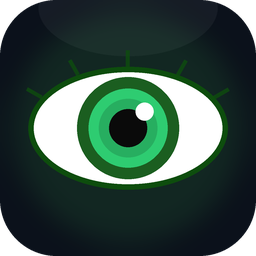
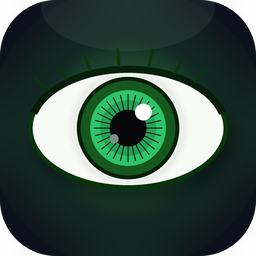
ok

Changed region(s): [[0.0938, 0.1875, 0.9062, 0.75], [0.7188, 0.2188, 0.75, 0.25], [0.25, 0.2188, 0.2812, 0.25]]

diff --git a/scripts/generate_icon.py b/scripts/generate_icon.py
@@ -15,82 +15,153 @@ from PIL import Image, ImageDraw, ImageFilter
 _BG_DARK = (11, 17, 27, 255)   # deep navy background
 
 
+def _draw_iris_fibers(
+    draw: ImageDraw.ImageDraw,
+    cx: int,
+    cy: int,
+    inner_r: int,
+    outer_r: int,
+    s: int,
+) -> None:
+    """Radial fiber lines inside the iris for a realistic texture."""
+    num_spokes = 28
+    spoke_w = max(1, int(s * 0.005))
+    for i in range(num_spokes):
+        angle = math.radians(i * 360 / num_spokes)
+        x0 = int(cx + inner_r * math.cos(angle))
+        y0 = int(cy + inner_r * math.sin(angle))
+        x1 = int(cx + outer_r * math.cos(angle))
+        y1 = int(cy + outer_r * math.sin(angle))
+        draw.line([x0, y0, x1, y1], fill=(12, 50, 16, 60), width=spoke_w)
+
 
 def _make_icon(size: int) -> Image.Image:
     """Render a green eye icon on a dark rounded background at *size* x *size*."""
-    scale = 4
+    scale = 6                       # 6× supersampling for smooth anti-aliased edges
     s = size * scale
     cx, cy = s // 2, s // 2
 
-    # 1. Background: dark rounded square + subtle top sheen
+    # 1. Background: dark rounded square
     img = Image.new("RGBA", (s, s), (0, 0, 0, 0))
     corner_r = int(s * 0.22)
     ImageDraw.Draw(img).rounded_rectangle(
         [0, 0, s - 1, s - 1], radius=corner_r, fill=_BG_DARK
     )
+
+    # Subtle centre-bright vignette (lighter centre, not edges)
+    vignette = Image.new("RGBA", (s, s), (0, 0, 0, 0))
+    for i in range(10):
+        vr = int(s * (0.55 - i * 0.04))
+        if vr <= 0:
+            break
+        ImageDraw.Draw(vignette).ellipse(
+            [cx - vr, cy - vr, cx + vr, cy + vr],
+            fill=(255, 255, 255, 4),
+        )
+    img = Image.alpha_composite(img, vignette)
+
+    # Top specular sheen
     sheen = Image.new("RGBA", (s, s), (0, 0, 0, 0))
-    sw_sh, sh_sh = int(s * 0.70), int(s * 0.32)
+    sw_sh, sh_sh = int(s * 0.68), int(s * 0.30)
     ImageDraw.Draw(sheen).ellipse(
-        [cx - sw_sh // 2, -sh_sh // 2, cx + sw_sh // 2, sh_sh // 2 + int(s * 0.06)],
-        fill=(255, 255, 255, 12),
+        [cx - sw_sh // 2, -sh_sh // 2, cx + sw_sh // 2, sh_sh // 2 + int(s * 0.05)],
+        fill=(255, 255, 255, 16),
     )
     img = Image.alpha_composite(img, sheen)
 
-    # 2. Soft green glow behind the eye
-    glow_layer = Image.new("RGBA", (s, s), (0, 0, 0, 0))
-    for i in range(10):
-        gr = int(s * (0.26 + i * 0.025))
-        alpha = 6 + i * 3
-        ImageDraw.Draw(glow_layer).ellipse(
-            [cx - gr, cy - gr, cx + gr, cy + gr],
-            fill=(63, 185, 80, alpha),
+    # 2. Two-layer glow: wide cool haze + tight warm core
+    for glow_color, radius_base, step, alpha_base, blur_factor in (
+        ((40, 160, 60), 0.28, 0.022, 3, 0.08),   # wide cool haze
+        ((80, 220, 100), 0.16, 0.016, 6, 0.04),  # tight warm core
+    ):
+        glow_layer = Image.new("RGBA", (s, s), (0, 0, 0, 0))
+        gd = ImageDraw.Draw(glow_layer)
+        for i in range(12):
+            gr = int(s * (radius_base + i * step))
+            alpha = alpha_base + i * 3
+            gd.ellipse(
+                [cx - gr, cy - gr, cx + gr, cy + gr],
+                fill=(*glow_color, alpha),
+            )
+        glow_layer = glow_layer.filter(
+            ImageFilter.GaussianBlur(radius=int(s * blur_factor))
         )
-    glow_layer = glow_layer.filter(ImageFilter.GaussianBlur(radius=int(s * 0.06)))
-    img = Image.alpha_composite(img, glow_layer)
+        img = Image.alpha_composite(img, glow_layer)
 
     # 3. Eye shape
     ew = int(s * 0.78)
     eh = int(s * 0.48)
     ex0, ey0 = cx - ew // 2, cy - eh // 2
     ex1, ey1 = ex0 + ew, ey0 + eh
+    ea, eb = ew // 2, eh // 2          # semi-axes for parametric lash placement
 
+    # Drop shadow beneath eye
+    shadow = Image.new("RGBA", (s, s), (0, 0, 0, 0))
+    sd_off = int(s * 0.025)
+    ImageDraw.Draw(shadow).ellipse(
+        [ex0 + sd_off, ey0 + sd_off * 2, ex1 + sd_off, ey1 + sd_off * 2],
+        fill=(0, 0, 0, 90),
+    )
+    shadow = shadow.filter(ImageFilter.GaussianBlur(radius=int(s * 0.025)))
+    img = Image.alpha_composite(img, shadow)
+
+    # Eye contents layer
     eye_layer = Image.new("RGBA", (s, s), (0, 0, 0, 0))
     ed = ImageDraw.Draw(eye_layer)
 
-    # Sclera (eye-white)
-    ed.ellipse([ex0, ey0, ex1, ey1], fill=(255, 255, 255, 255))
+    # Sclera — very slightly warm white
+    ed.ellipse([ex0, ey0, ex1, ey1], fill=(248, 250, 246, 255))
 
+    # Limbal ring (very dark outermost iris ring for depth)
+    limbal_r = int(s * 0.200)
+    ed.ellipse(
+        [cx - limbal_r, cy - limbal_r, cx + limbal_r, cy + limbal_r],
+        fill=(6, 32, 8, 255),
+    )
     # Outer iris — deep forest green
-    iris_r = int(s * 0.20)
+    iris_r = int(s * 0.185)
     ed.ellipse(
         [cx - iris_r, cy - iris_r, cx + iris_r, cy + iris_r],
-        fill=(27, 94, 32, 255),
+        fill=(22, 88, 30, 255),
     )
     # Mid iris — vibrant green
-    mid_r = int(s * 0.155)
+    mid_r = int(s * 0.148)
     ed.ellipse(
         [cx - mid_r, cy - mid_r, cx + mid_r, cy + mid_r],
-        fill=(46, 204, 113, 255),
+        fill=(46, 196, 106, 255),
     )
-    # Inner iris ring
-    inner_r = int(s * 0.115)
+    # Inner iris ring — slightly darker for dimension
+    inner_r = int(s * 0.110)
     ed.ellipse(
         [cx - inner_r, cy - inner_r, cx + inner_r, cy + inner_r],
-        fill=(39, 174, 96, 255),
+        fill=(36, 162, 86, 255),
     )
+
+    # Iris radial fiber texture
+    _draw_iris_fibers(ed, cx, cy, int(mid_r * 0.30), int(mid_r * 0.90), s)
+
     # Pupil
-    pupil_r = int(s * 0.075)
+    pupil_r = int(s * 0.072)
     ed.ellipse(
         [cx - pupil_r, cy - pupil_r, cx + pupil_r, cy + pupil_r],
-        fill=(10, 10, 10, 255),
+        fill=(8, 8, 10, 255),
     )
-    # Catchlight highlight
-    hl_r = max(3, int(s * 0.036))
-    hl_x = cx + int(s * 0.065)
-    hl_y = cy - int(s * 0.065)
+
+    # Primary catchlight — top-right
+    hl_r = max(3, int(s * 0.033))
+    hl_x = cx + int(s * 0.060)
+    hl_y = cy - int(s * 0.063)
     ed.ellipse(
         [hl_x - hl_r, hl_y - hl_r, hl_x + hl_r, hl_y + hl_r],
         fill=(255, 255, 255, 255),
+    )
+    # Secondary catchlight — bottom-left, dimmer
+    hl2_r = max(2, int(s * 0.018))
+    hl2_x = cx - int(s * 0.055)
+    hl2_y = cy + int(s * 0.042)
+    ed.ellipse(
+        [hl2_x - hl2_r, hl2_y - hl2_r, hl2_x + hl2_r, hl2_y + hl2_r],
+        fill=(255, 255, 255, 120),
     )
 
     # Clip eye contents to the lens shape
@@ -100,25 +171,51 @@ def _make_icon(size: int) -> Image.Image:
     clipped.paste(eye_layer, mask=mask)
 
     # Eyelid border
-    border_w = max(2, int(s * 0.022))
+    border_w = max(2, int(s * 0.018))
     ImageDraw.Draw(clipped).ellipse(
-        [ex0, ey0, ex1, ey1], outline=(13, 77, 13, 255), width=border_w
+        [ex0, ey0, ex1, ey1], outline=(8, 52, 10, 255), width=border_w
     )
 
-    # Upper eyelash accent lines
-    lash_color = (13, 77, 13, 200)
-    lash_len = int(s * 0.065)
-    lash_w = max(2, int(s * 0.016))
+    # Upper eyelid arc — darker thicker stroke on the top half only
+    lid_d = ImageDraw.Draw(clipped)
+    lid_w = max(3, int(s * 0.028))
+    lid_d.arc(
+        [ex0 - int(s * 0.004), ey0 - int(s * 0.004),
+         ex1 + int(s * 0.004), ey1 + int(s * 0.004)],
+        start=195, end=345, fill=(5, 28, 7, 230), width=lid_w,
+    )
+
+    # Upper eyelash lines — variable length, radiating outward
+    lash_color = (10, 52, 12, 215)
+    lash_w = max(2, int(s * 0.013))
     ld = ImageDraw.Draw(clipped)
-    for i in range(5):
-        angle_rad = math.radians(210 + i * 30)
-        sx = int(cx + (ew // 2) * math.cos(angle_rad))
-        sy = int(cy + (eh // 2) * math.sin(angle_rad))
+    lash_specs = [
+        (218, 0.075), (232, 0.068), (248, 0.078),
+        (265, 0.072), (282, 0.078), (298, 0.068), (312, 0.072),
+    ]
+    for angle_deg, lash_frac in lash_specs:
+        angle_rad = math.radians(angle_deg)
+        sx = int(cx + ea * math.cos(angle_rad))
+        sy = int(cy + eb * math.sin(angle_rad))
+        lash_len = int(s * lash_frac)
         ex_end = int(sx + lash_len * math.cos(angle_rad))
         ey_end = int(sy + lash_len * math.sin(angle_rad))
         ld.line([sx, sy, ex_end, ey_end], fill=lash_color, width=lash_w)
 
     img = Image.alpha_composite(img, clipped)
+
+    # Inner iris-edge soft green glow (subtle halo inside the sclera)
+    inner_glow = Image.new("RGBA", (s, s), (0, 0, 0, 0))
+    ig_r = limbal_r + int(s * 0.018)
+    ImageDraw.Draw(inner_glow).ellipse(
+        [cx - ig_r, cy - ig_r, cx + ig_r, cy + ig_r],
+        outline=(60, 200, 90, 40),
+        width=max(2, int(s * 0.014)),
+    )
+    inner_glow = inner_glow.filter(
+        ImageFilter.GaussianBlur(radius=max(1, int(s * 0.012)))
+    )
+    img = Image.alpha_composite(img, inner_glow)
 
     return img.resize((size, size), Image.LANCZOS)
 

diff --git a/CHANGELOG.md b/CHANGELOG.md
@@ -1,5 +1,9 @@
 # Changelog
 
+## 2026-04-29 (5.6.2)
+
+- Melhoria: qualidade visual do ícone do app aprimorada — supersampling elevado de 4× para 6×; limbal ring adicionado ao redor da íris; textura de fibras radiais (28 raios) na íris; segundo reflexo de luz na pupila; arco de pálpebra superior separado; 7 cílios com comprimento variável; sombra projetada sob o olho; brilho em duas camadas (haze amplo + núcleo quente); esclera com branco levemente quente; fundo com vignette central sutil.
+
 ## 2026-04-28 (5.6.1)
 
 - Correção: ícone do app revertido para o olho verde (design original) — substitui a torre sentinela introduzida na 5.6.0; `generate_icon.py` reescrito para produzir o olho com supersampling 4×, íris multicamada, pupila e reflexo de luz.